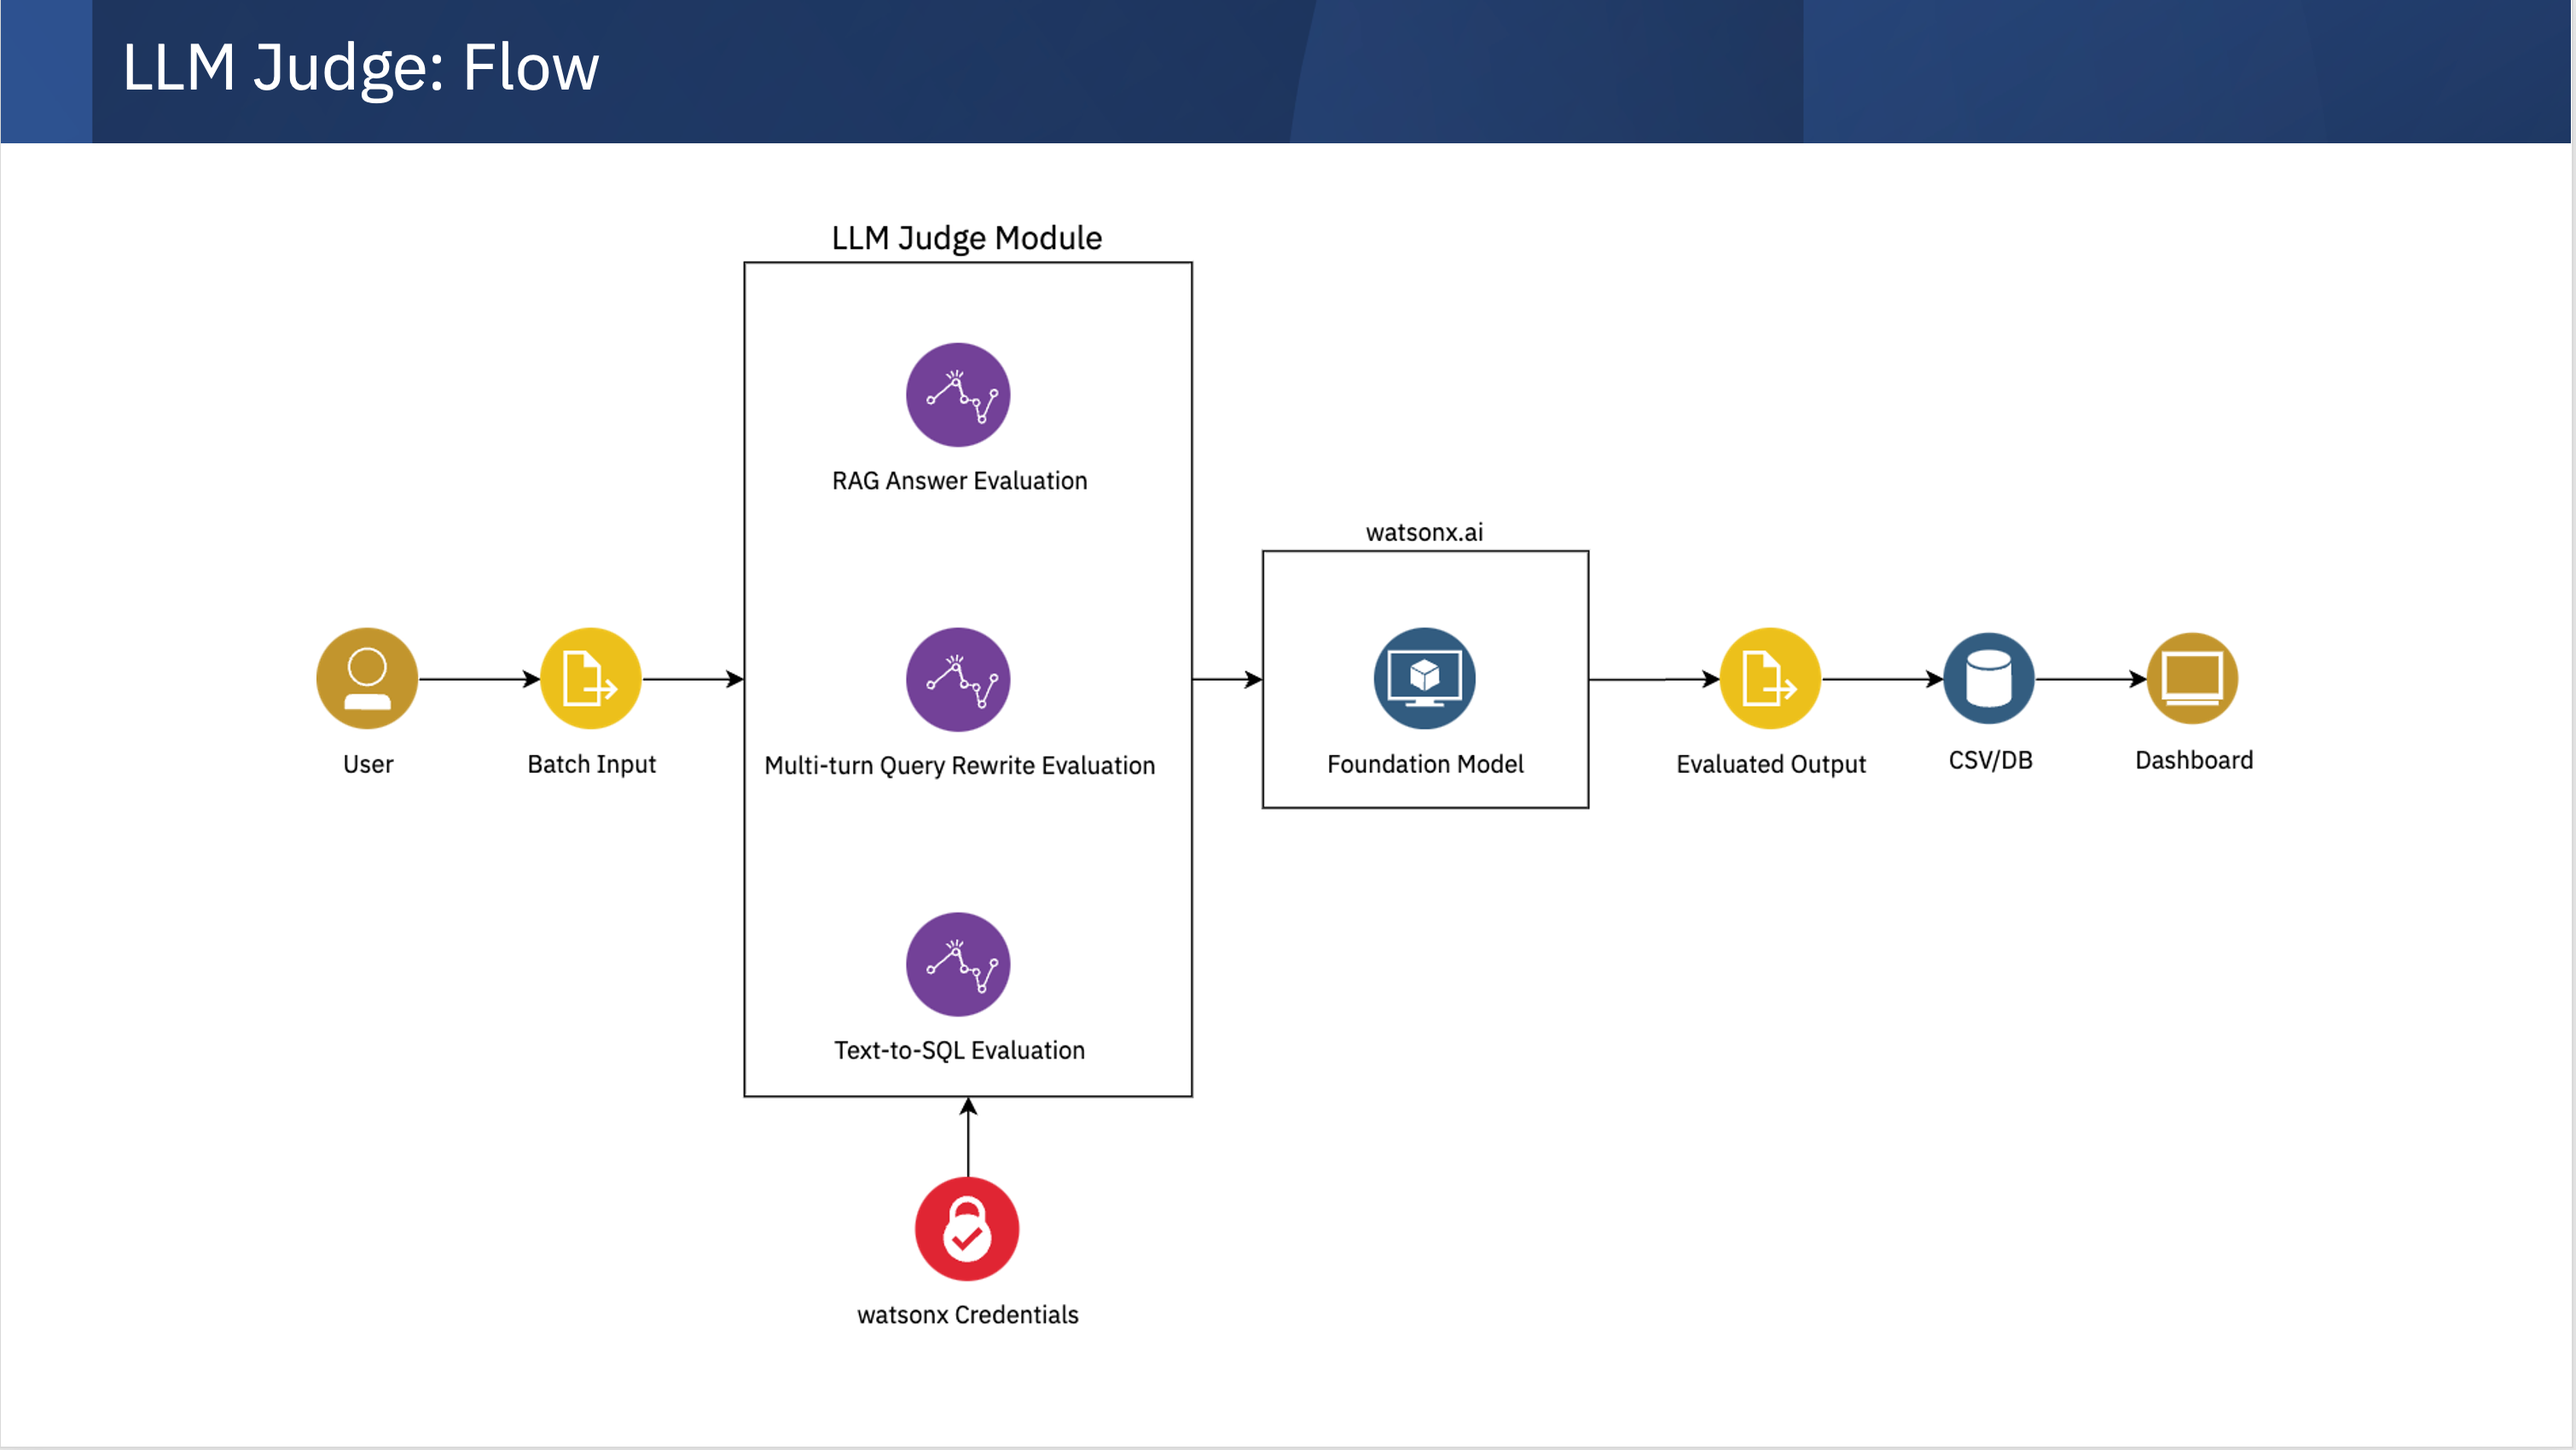
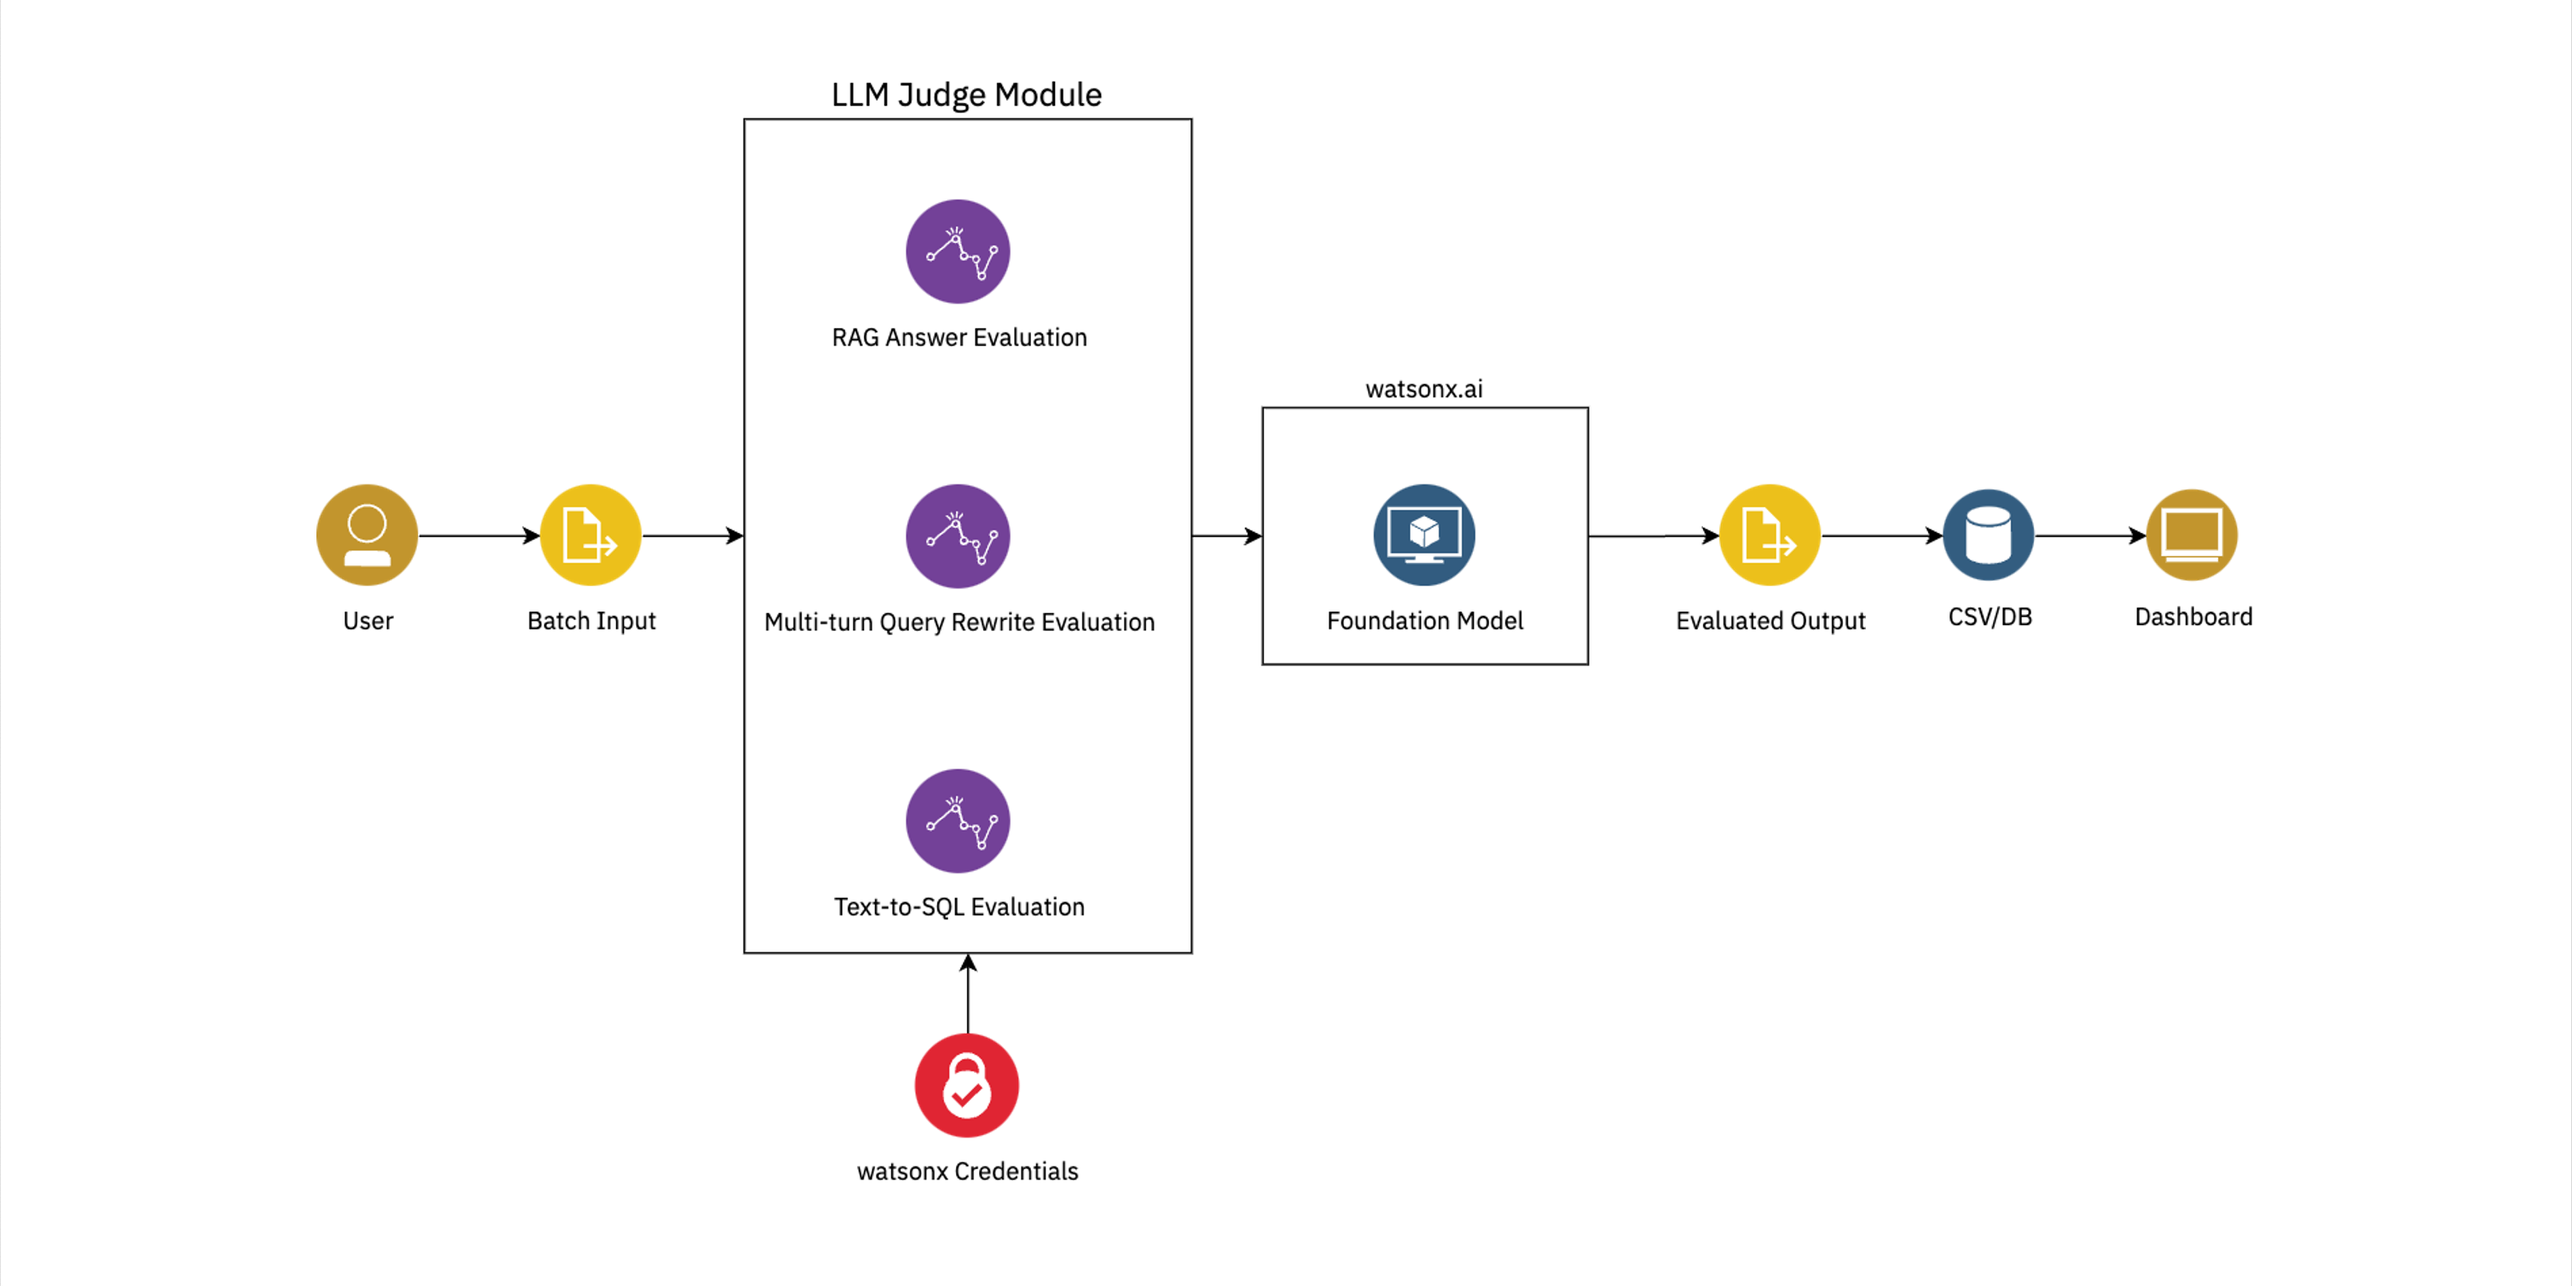
readme updates

diff --git a/README.md b/README.md
@@ -4,6 +4,8 @@ Accuracy and reliability are paramount when building Generative AI pipelines. Th
 
 JudgeIt is an automated evaluation framework designed to accurately and efficiently assess various Generative AI pipelines, including RAG, multi-turn query rewriting, text-to-SQL conversion, and more. This service enables users to conduct batch evaluations across these different Generative AI pipelines. Users can input datasets containing generated text along with corresponding golden text. JudgeIt then employs an LLM as a judge to perform similarity evaluations between these inputs, providing an accurate assessment of the AI pipeline's performance.
 
+![JudgeIt Flow](/images/flow-diagram.png)
+
 ## Features
 
 - **Automated Evaluation**: JudgeIt automates batch evaluation processes, resulting in more efficient evaluation compared to human testers.
@@ -14,17 +16,21 @@ JudgeIt is an automated evaluation framework designed to accurately and efficien
 
 ## Reliability Metrics
 
-The LLM Judges in this repository have been tested against human evaluation to validate their reliability.
+To ensure reliability, JudgeIt has been tested against human evaluation for each RAG pipeline that it offers a judge for. For RAG evaluation, this process involved building a dataset of user queries, golden answers, RAG answers, and human evaluations of the similarity between the RAG and golden answers. Using Meta’s Llama-3–70b as an LLM Judge, JudgeIt was able to achieve the following accuracy metrics:
 
-1. RAG Evaluation (LLM Judge evaluated against human)
+- Accuracy: 90%
+- Precision: 100%
+- Recall: 90%
+- F1 Score: 95%
 
-   ![RAG Evaluation Reliability](/images/rag-evaluation-reliability.png)
+For Multi-turn evaluation, this process involved building a dataset of user queries, conversation history including a previous question and previous answer, golden rewritten queries, generated rewritten queries, and human evaluations of the similarity between the generated rewritten queries and golden answers. Using Meta’s Llama-3–70b as an LLM Judge, JudgeIt was able to achieve the following accuracy metrics:
 
-2. Multi-turn Query Rewrite (LLM Judge evaluated against human)
+- Accuracy: 92%
+- Precision: 96%
+- Recall: 93%
+- F1 Score: 95%
 
-   ![Multi-turn Evaluation Reliability](/images/multi-turn-evaluation-reliability.png)
-
-## Usage
+## What's Available?
 
 There are three types of LLM judges available in JudgeIt:
 
